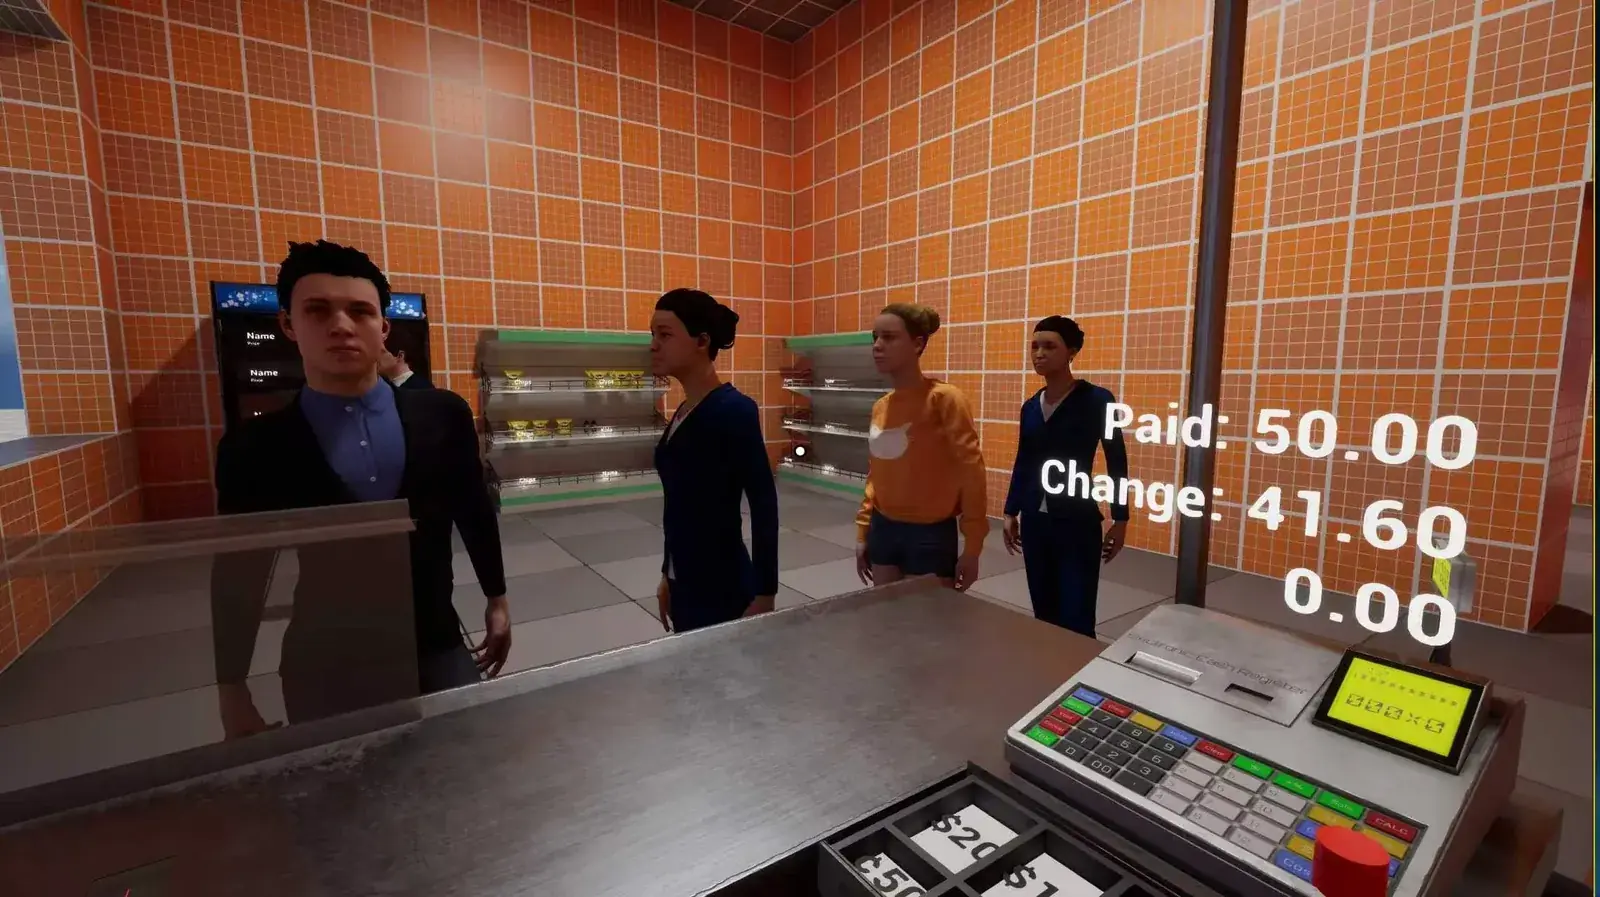
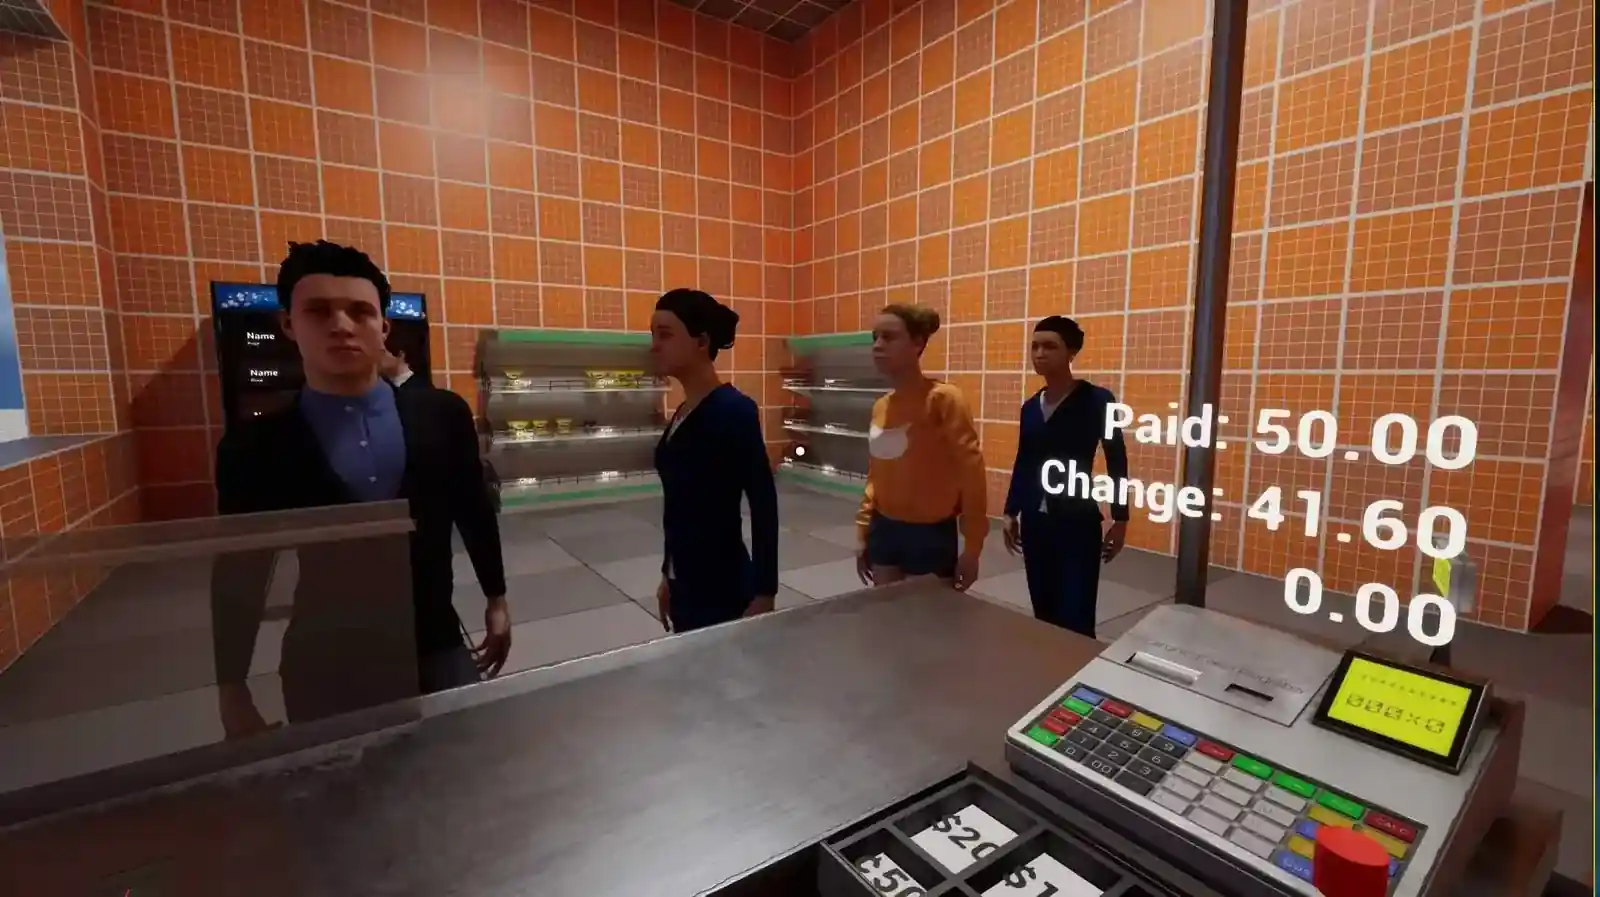
1

Changed region(s): [[0.6562, 0.7804, 0.6875, 0.8116]]

diff --git a/CogniStream_Profilo.html b/CogniStream_Profilo.html
@@ -7,7 +7,26 @@
 
     <link rel="preconnect" href="https://fonts.googleapis.com">
     <link rel="preconnect" href="https://fonts.gstatic.com" crossorigin>
-    <link href="https://fonts.google<link href="https://fonts.googleapis.com/css2?family=Libre+Barcode+39+Text&display=swap" rel="stylesheet">apis.com/css2family=Libre+Barcode+39+Text&display=swap" rel="stylesheet">
+    <link href="https://fonts.googleapis.com/css2?family=Libre+Barcode+39+Text&display=swap" rel="stylesheet">
+
+    <script>
+        // Optional capture mode for turning this page into portfolio-PDF
+        // screenshots. Append ?pdf=1 to the URL before capturing (with a
+        // full-page screenshot tool, or the browser's own Print-to-PDF).
+        // It forces every scroll-triggered ".reveal" element into its
+        // final visible state and hides the floating/fixed chrome (logo,
+        // back button, scroll rail, film grain) that only makes sense on
+        // a live, scrolling page. The normal site is completely
+        // unaffected when the parameter is absent.
+        (function () {
+            try {
+                var params = new URLSearchParams(window.location.search);
+                if (params.get('pdf') === '1' || params.get('capture') === '1') {
+                    document.documentElement.classList.add('pdf-capture');
+                }
+            } catch (e) { /* no-op if URLSearchParams unsupported */ }
+        })();
+    </script>
 
     <style>
         :root {
@@ -50,7 +69,6 @@
         }
 
         ::-webkit-scrollbar { width: 0px; background: transparent; }
-
 
         .noise-overlay {
             position: fixed; top: 0; left: 0; width: 100vw; height: 100vh;
@@ -235,10 +253,6 @@
             box-shadow: none;
         }
 
-        /* ---------------------------------------------------------- */
-        /* Subscription tier cards recreated from the actual        */
-        /* Cogni-Stream "Select your tier of evolution" pricing table */
-        /* ---------------------------------------------------------- */
         .tier-grid {
             display: grid; grid-template-columns: repeat(auto-fit, minmax(220px, 1fr));
             gap: 1.5rem; margin-top: 3rem;
@@ -257,9 +271,6 @@
         .tier-block span.label { display: block; font-size: 0.7rem; letter-spacing: 0.12em; color: var(--text-tertiary); text-transform: uppercase; margin-bottom: 0.6rem; }
         .tier-block p { font-size: 0.9rem; color: var(--text-secondary); margin: 0.2rem 0; }
 
-        /* ---------------------------------------------------------- */
-        /* Status Halo the device's public-facing class indicator   */
-        /* ---------------------------------------------------------- */
         .halo-grid {
             display: grid; grid-template-columns: repeat(auto-fit, minmax(220px, 1fr));
             gap: 2rem; margin-top: 3rem;
@@ -278,9 +289,6 @@
         .halo-text .name { font-size: 0.95rem; font-weight: 600; letter-spacing: 0.04em; text-transform: uppercase; margin-bottom: 0.3rem; }
         .halo-text .desc { font-size: 0.9rem; color: var(--text-secondary); }
 
-        /* ---------------------------------------------------------- */
-        /* Simulated X / community discussion mockup                  */
-        /* ---------------------------------------------------------- */
         .tweet-stack { display: flex; flex-direction: column; gap: 1.25rem; margin-top: 3rem; max-width: 620px; }
         .tweet-card {
             border: 1px solid var(--border-subtle); border-radius: var(--radius-md);
@@ -304,10 +312,6 @@
         .quote-block p { font-size: 1.15rem; color: var(--text-primary); font-weight: 500; line-height: 1.5; }
         .quote-block span { display: block; margin-top: 0.75rem; font-size: 0.85rem; color: var(--text-tertiary); }
 
-        /* ---------------------------------------------------------- */
-        /* Source-code excerpts real snippets pulled from            */
-        /* EnGram__Web.html, annotated inline                          */
-        /* ---------------------------------------------------------- */
         .code-panel {
             background: #0a0a0d; border: 1px solid var(--border-subtle);
             border-radius: var(--radius-md); overflow: hidden; box-shadow: var(--shadow-subtle);
@@ -334,11 +338,98 @@
         .code-note strong { color: var(--text-primary); font-weight: 600; }
 
         /* ============================================================
+           Screenshot-capture mode (?pdf=1 or ?capture=1 in the URL) —
+           Optimized layout for taking continuous full-page screenshots
+           for a portfolio PDF, without losing the original design sense.
+           ============================================================ */
+        html.pdf-capture {
+            font-size: 90%;
+        }
+
+        /* Hide ONLY the interactive chrome (scroll track, back button) */
+        html.pdf-capture .scroll-track,
+        html.pdf-capture .back-home-btn {
+            display: none !important;
+        }
+
+        /* PRESERVE design elements, but switch them from fixed to absolute
+           so they stretch correctly across the document and don't cause
+           banding/tiling artifacts in stitched screenshots. */
+        html.pdf-capture .noise-overlay {
+            display: block !important;
+            position: absolute !important;
+            height: 100% !important;
+            min-height: 100vh !important;
+        }
+        html.pdf-capture .ambient-light {
+            display: block !important;
+            position: absolute !important;
+            width: 1200px !important;
+            height: 1200px !important;
+            top: -200px !important;
+            left: -200px !important;
+        }
+        html.pdf-capture .ambient-light.right {
+            top: 40% !important;
+            left: auto !important;
+            right: -300px !important;
+        }
+
+        /* Make header static relative to the document top */
+        html.pdf-capture .site-header {
+            position: absolute !important;
+            top: 4rem !important;
+            left: 6vw !important;
+        }
+
+        /* Tighten layout to eliminate massive vertical whitespace */
+        html.pdf-capture .container {
+            max-width: 1100px !important;
+            padding: 0 4rem !important;
+        }
+        html.pdf-capture .section {
+            padding: 6rem 0 !important;
+        }
+        html.pdf-capture .hero {
+            padding-top: 10rem !important;
+            padding-bottom: 4rem !important;
+            min-height: auto !important;
+        }
+        html.pdf-capture .hero-meta {
+            margin-top: 4rem !important;
+        }
+
+        html.pdf-capture .reveal {
+            opacity: 1 !important;
+            transform: none !important;
+            filter: none !important;
+            transition: none !important;
+        }
+        html.pdf-capture .sticky-col {
+            position: static !important;
+            top: auto !important;
+        }
+        html.pdf-capture .grid-split {
+            gap: 4rem !important;
+        }
+
+        /* Prevent elements from being sliced awkwardly if the screenshot
+           is later split into A4 pages */
+        html.pdf-capture .tier-card,
+        html.pdf-capture .halo-item,
+        html.pdf-capture .tweet-card,
+        html.pdf-capture .code-panel,
+        html.pdf-capture .media-frame,
+        html.pdf-capture .quote-block,
+        html.pdf-capture .prototype-btn-group,
+        html.pdf-capture img {
+            page-break-inside: avoid;
+            break-inside: avoid;
+        }
+        
+        /* ============================================================
            Print / PDF export — lets this page be turned into a portfolio
-           PDF straight from the browser's Print dialog (Cmd/Ctrl+P →
-           Save as PDF), without touching any live-site content, copy,
-           or interaction behaviour. Everything below only ever applies
-           when actually printing.
+           PDF straight from the browser's Print dialog.
            ============================================================ */
         @media print {
 
@@ -347,32 +438,16 @@
                 margin: 10mm 14mm;
             }
 
-            /* Nearly every font-size, margin and gap on this page is set
-               in rem, sized for a tall scrolling column. Scaling the root
-               down shrinks all of them together, proportionally, which is
-               what actually lets the denser sections (tier cards, code
-               panel) fit on one short landscape page instead of spilling
-               a lone card or row onto a near-empty next page. */
             html {
                 font-size: 80% !important;
             }
 
-            /* Force backgrounds/gradients to actually print instead of
-               being silently dropped to save ink — this design depends
-               entirely on the black background and cyan accents. */
             * {
                 -webkit-print-color-adjust: exact !important;
                 print-color-adjust: exact !important;
                 color-adjust: exact !important;
             }
 
-            /* backdrop-filter (the frosted-glass look on cards and
-               panels) isn't reliably supported by every print
-               pipeline — Windows' own "Microsoft Print to PDF" driver in
-               particular can render a blurred glass panel as a solid
-               opaque block instead of translucent blur. Disabling it for
-               print keeps every engine showing the same plain dark panel
-               rather than some engines showing a wrong solid fill. */
             * {
                 backdrop-filter: none !important;
                 -webkit-backdrop-filter: none !important;
@@ -384,25 +459,39 @@
                 cursor: auto !important;
             }
 
-            /* Chrome that only makes sense on a live, moving, hover-driven
-               page — a scroll-progress rail, a "back home"
-               button, film-grain and ambient glows. None of it belongs on
-               a printed page, and fixed-position elements don't paginate
-               reliably anyway, so they're removed rather than left to
-               render however a given browser's print engine feels like. */
-            .noise-overlay,
-            .ambient-light,
+            /* Hide ONLY interactive elements */
             .scroll-track,
-            .back-home-btn,
-            .site-header {
+            .back-home-btn {
                 display: none !important;
             }
+            
+            .site-header {
+                position: absolute !important;
+                top: 2rem !important;
+                left: 14mm !important;
+            }
 
-            /* .text-outline draws its hollow title look with a transparent
-               fill and a stroke-only outline. Not every print/PDF engine
-               reproduces text-stroke, which can silently turn a heading
-               into blank space — so print gets solid, always-legible
-               text instead. */
+            /* PRESERVE design layers for print, using absolute positioning */
+            .noise-overlay, 
+            .ambient-light {
+                display: block !important;
+                position: absolute !important;
+            }
+            .noise-overlay {
+                height: 100% !important;
+            }
+            .ambient-light {
+                width: 1000px !important;
+                height: 1000px !important;
+                top: -100px !important;
+                left: -100px !important;
+            }
+            .ambient-light.right {
+                top: 40% !important;
+                left: auto !important;
+                right: -200px !important;
+            }
+
             .text-outline {
                 color: var(--accent-cyan) !important;
                 -webkit-text-stroke: 0 !important;
@@ -411,10 +500,6 @@
                 animation: none !important;
             }
 
-            /* Scroll-triggered reveal animations never get a chance to
-               fire during print rendering — there's no real scrolling —
-               so content left at its initial opacity: 0 would otherwise
-               print as empty space. Force the "arrived" state directly. */
             .reveal {
                 opacity: 1 !important;
                 transform: none !important;
@@ -422,13 +507,6 @@
                 transition: none !important;
             }
 
-            /* Sticky positioning has no meaning on a paginated printout,
-               so it's turned off. The two-column split itself is kept —
-               and tightened up — because stacking heading/text into a
-               single column on a short landscape page is what was
-               pushing each section past one page. Side-by-side columns
-               keep every section's total height low enough to land on
-               one page. */
             .grid-split {
                 grid-template-columns: 0.85fr 1.3fr !important;
                 gap: 3rem !important;
@@ -440,20 +518,23 @@
                 top: auto !important;
             }
 
-            /* Text columns are narrow because they're designed for a
-               vertical scroll layout; on a wide landscape page that
-               leaves a lot of unused width. Give print more breathing
-               room without stretching lines past a comfortable length. */
             .text-body { max-width: 780px !important; }
             .text-lead { max-width: 900px !important; }
 
-            /* Code panel's horizontal scroll has no meaning on a static
-               printout, and a long unwrapped line would just run off
-               the edge of the page and get clipped. Wrap it instead. */
             .code-panel pre {
                 white-space: pre-wrap !important;
                 word-break: break-word !important;
                 overflow-x: visible !important;
+            }
+            
+            /* Prevent awkward component slicing across print pages */
+            .tier-card, .halo-item, .tweet-card, .code-panel, .media-frame, .quote-block, img {
+                page-break-inside: avoid !important;
+                break-inside: avoid !important;
+            }
+            h2, h3, h4, .data-label {
+                page-break-after: avoid !important;
+                break-after: avoid !important;
             }
         }
     </style>
@@ -922,6 +1003,17 @@
 
 
         document.addEventListener('DOMContentLoaded', () => {
+            // In capture mode, most full-page screenshot tools never
+            // actually scroll the page, so native loading="lazy" images
+            // below the fold may never fire their load. Force them
+            // eager so every image is guaranteed to be in the DOM and
+            // rendered before a screenshot is taken.
+            if (document.documentElement.classList.contains('pdf-capture')) {
+                document.querySelectorAll('img[loading="lazy"]').forEach(img => {
+                    img.loading = 'eager';
+                });
+            }
+
             const reveals = document.querySelectorAll('.reveal');
             const observerOptions = { root: null, rootMargin: '0px 0px -15% 0px', threshold: 0.1 };
             const revealObserver = new IntersectionObserver((entries, observer) => {
